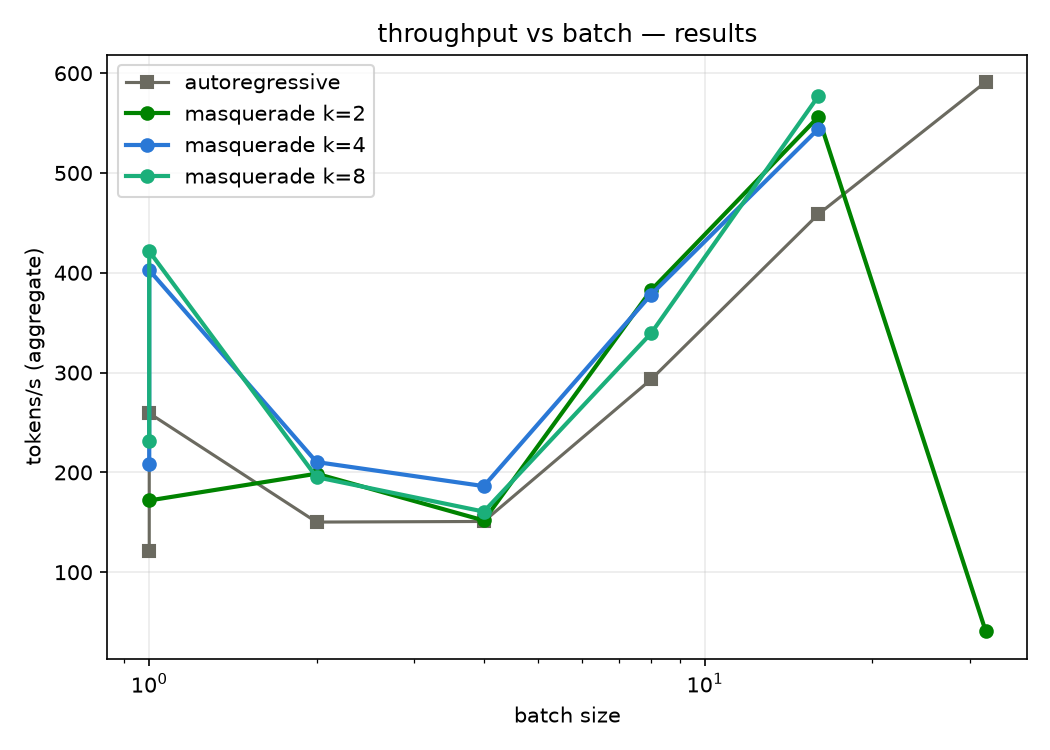
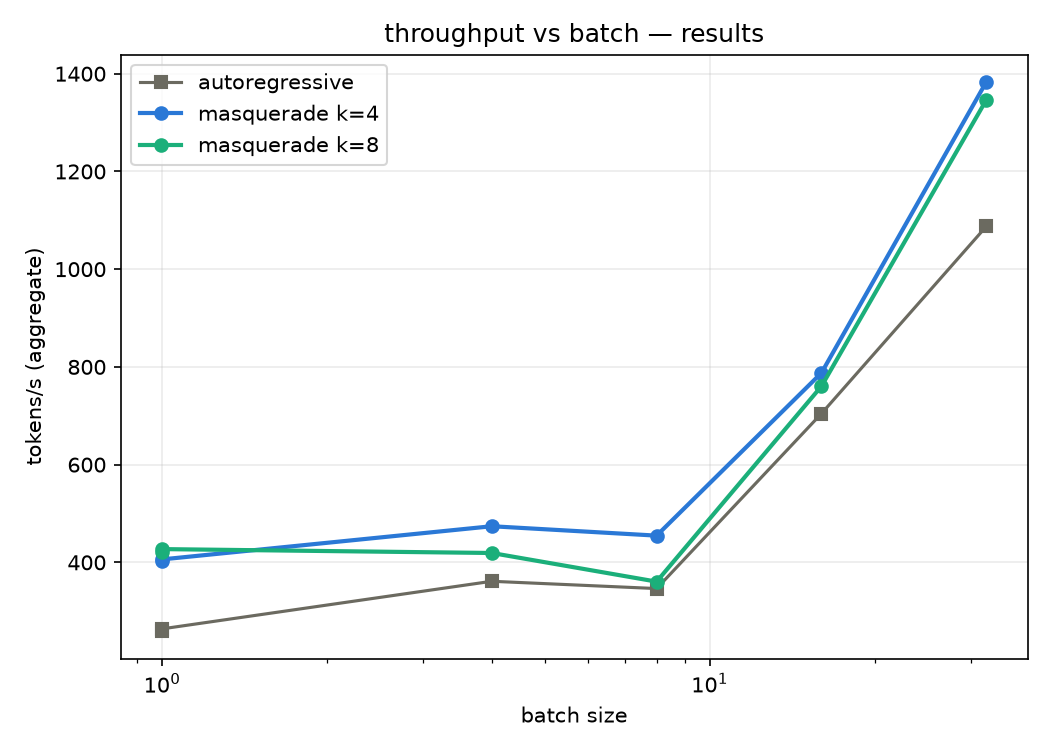
pareto figures (tight cache)

diff --git a/scripts/plots.py b/scripts/plots.py
@@ -70,7 +70,7 @@ def fig_acceptance_curves():
 
 
 def fig_pareto_local():
-    p = ROOT / "results/pareto_local.jsonl"
+    p = ROOT / "results/pareto_tight.jsonl"
     if not p.exists():
         return
     rows = load_jsonl(p)
@@ -89,10 +89,10 @@ def fig_pareto_local():
                     color=CAT[[4,8,12,2,6].index(k) % len(CAT)] if k in (2,4,6,8,12) else None,
                     label=f"masquerade k={k}", lw=2)
         ax.set(xlabel="batch size", ylabel="tokens/s (aggregate)", xscale="log",
-               title=f"throughput vs batch — {Path(tag).parent.name if tag != 'base' else 'base model'}")
+               title=f"throughput vs batch — {Path(tag).stem if tag != 'base' else 'base model'}")
         ax.legend()
         fig.tight_layout()
-        name = "base" if tag == "base" else Path(tag).parent.name + "_" + Path(tag).stem
+        name = "base" if tag == "base" else Path(tag).stem
         fig.savefig(FIGS / f"pareto_{name}.png", dpi=150)
         plt.close(fig)
         print("wrote pareto", name)